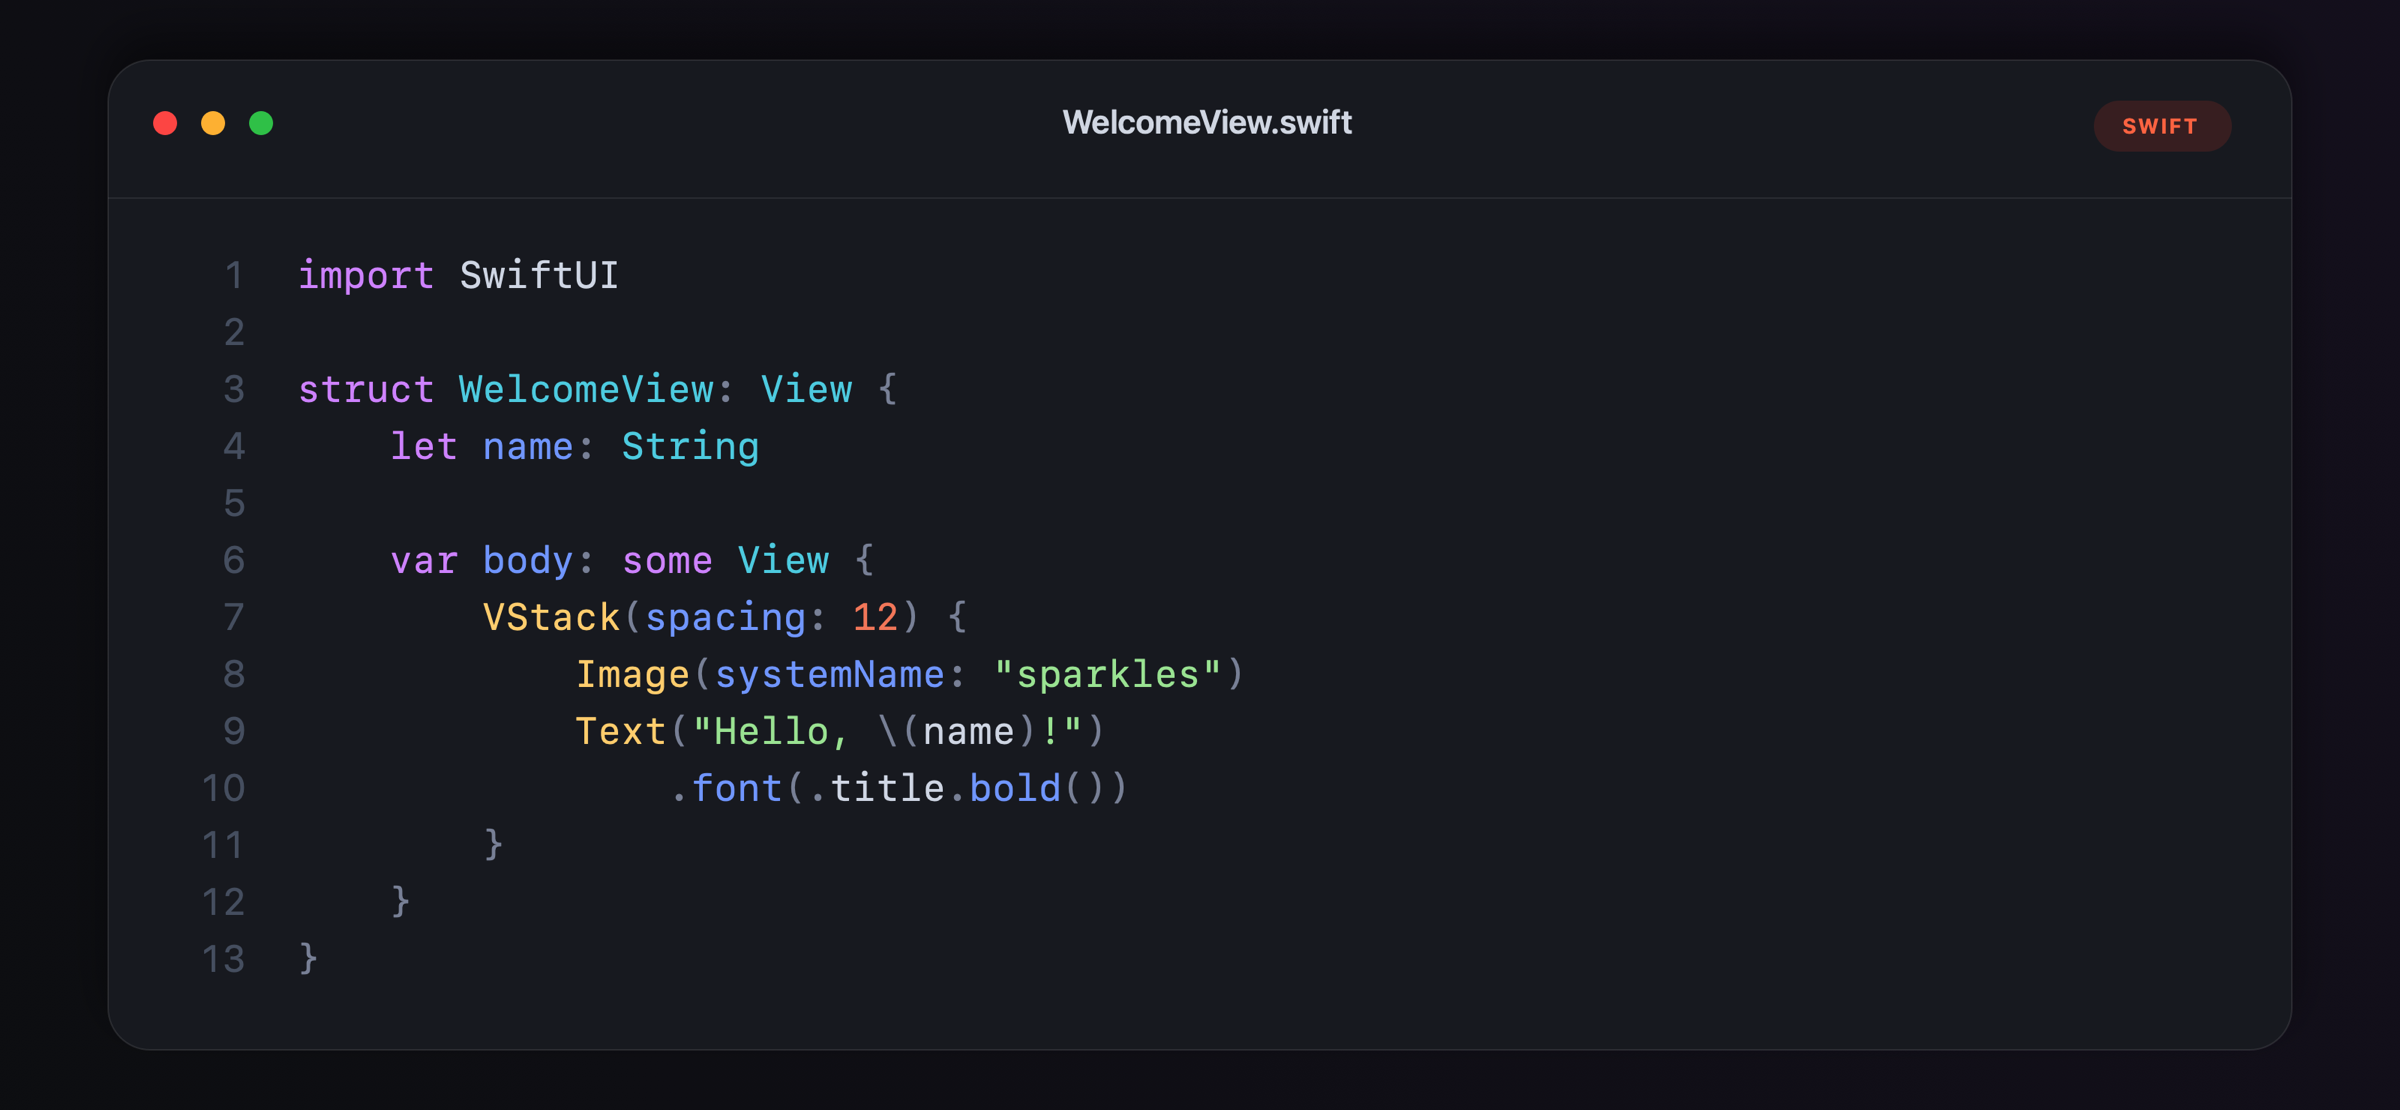
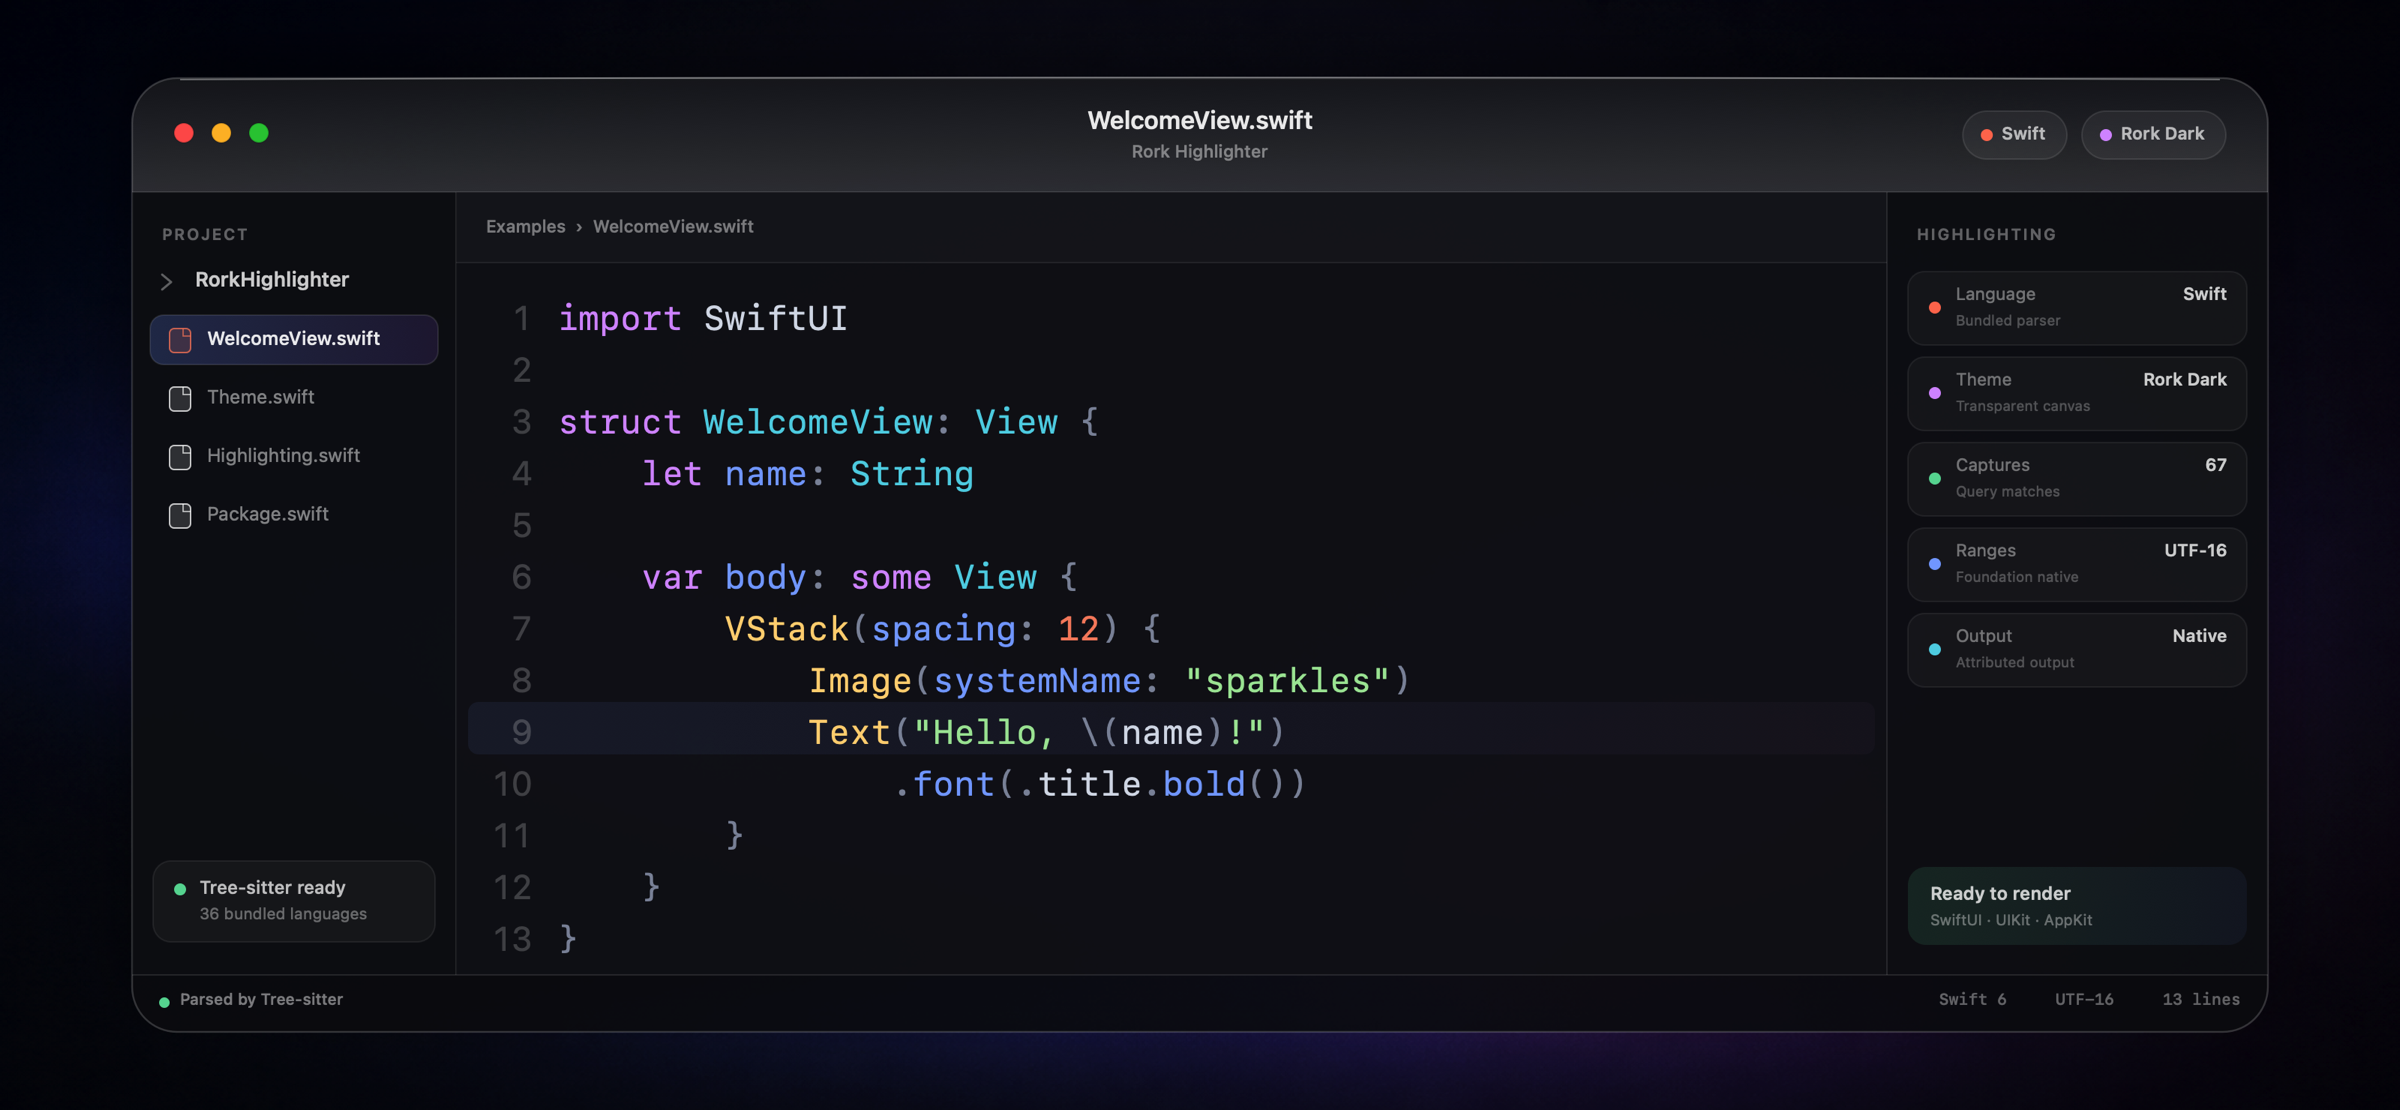
docs: add Apple-style highlighting hero

diff --git a/README.md b/README.md
@@ -4,6 +4,11 @@ Rork Highlighter is a SwiftPM-first syntax-highlighting library built on
 Tree-sitter. It provides a small Swift API for immutable source strings and an
 actor-isolated session API for documents that change over time.
 
+![Rork Highlighter rendering Swift with native attributed output.](Sources/RorkHighlighter/RorkHighlighter.docc/Resources/swift-attributed-output.png)
+
+The preview uses the bundled Swift parser and `.rorkDark` theme. The editor
+chrome is illustrative.
+
 The package currently bundles a common pack with 36 language definitions. Apps
 resolve one Swift package and import one public module instead of managing a
 separate SwiftPM dependency for every Tree-sitter grammar.
@@ -162,11 +167,6 @@ let code = Text(rendered)
     .padding()
     .background(Color.black)
 ```
-
-The syntax colors below come directly from `.rorkDark`. The surrounding editor
-chrome is illustrative.
-
-![Swift source highlighted with the Rork Dark theme.](Sources/RorkHighlighter/RorkHighlighter.docc/Resources/swift-attributed-output.png)
 
 The bundled themes leave `HighlightStyle.backgroundColor` unset. Set the canvas
 on the containing view or editor so attributed text does not paint background
